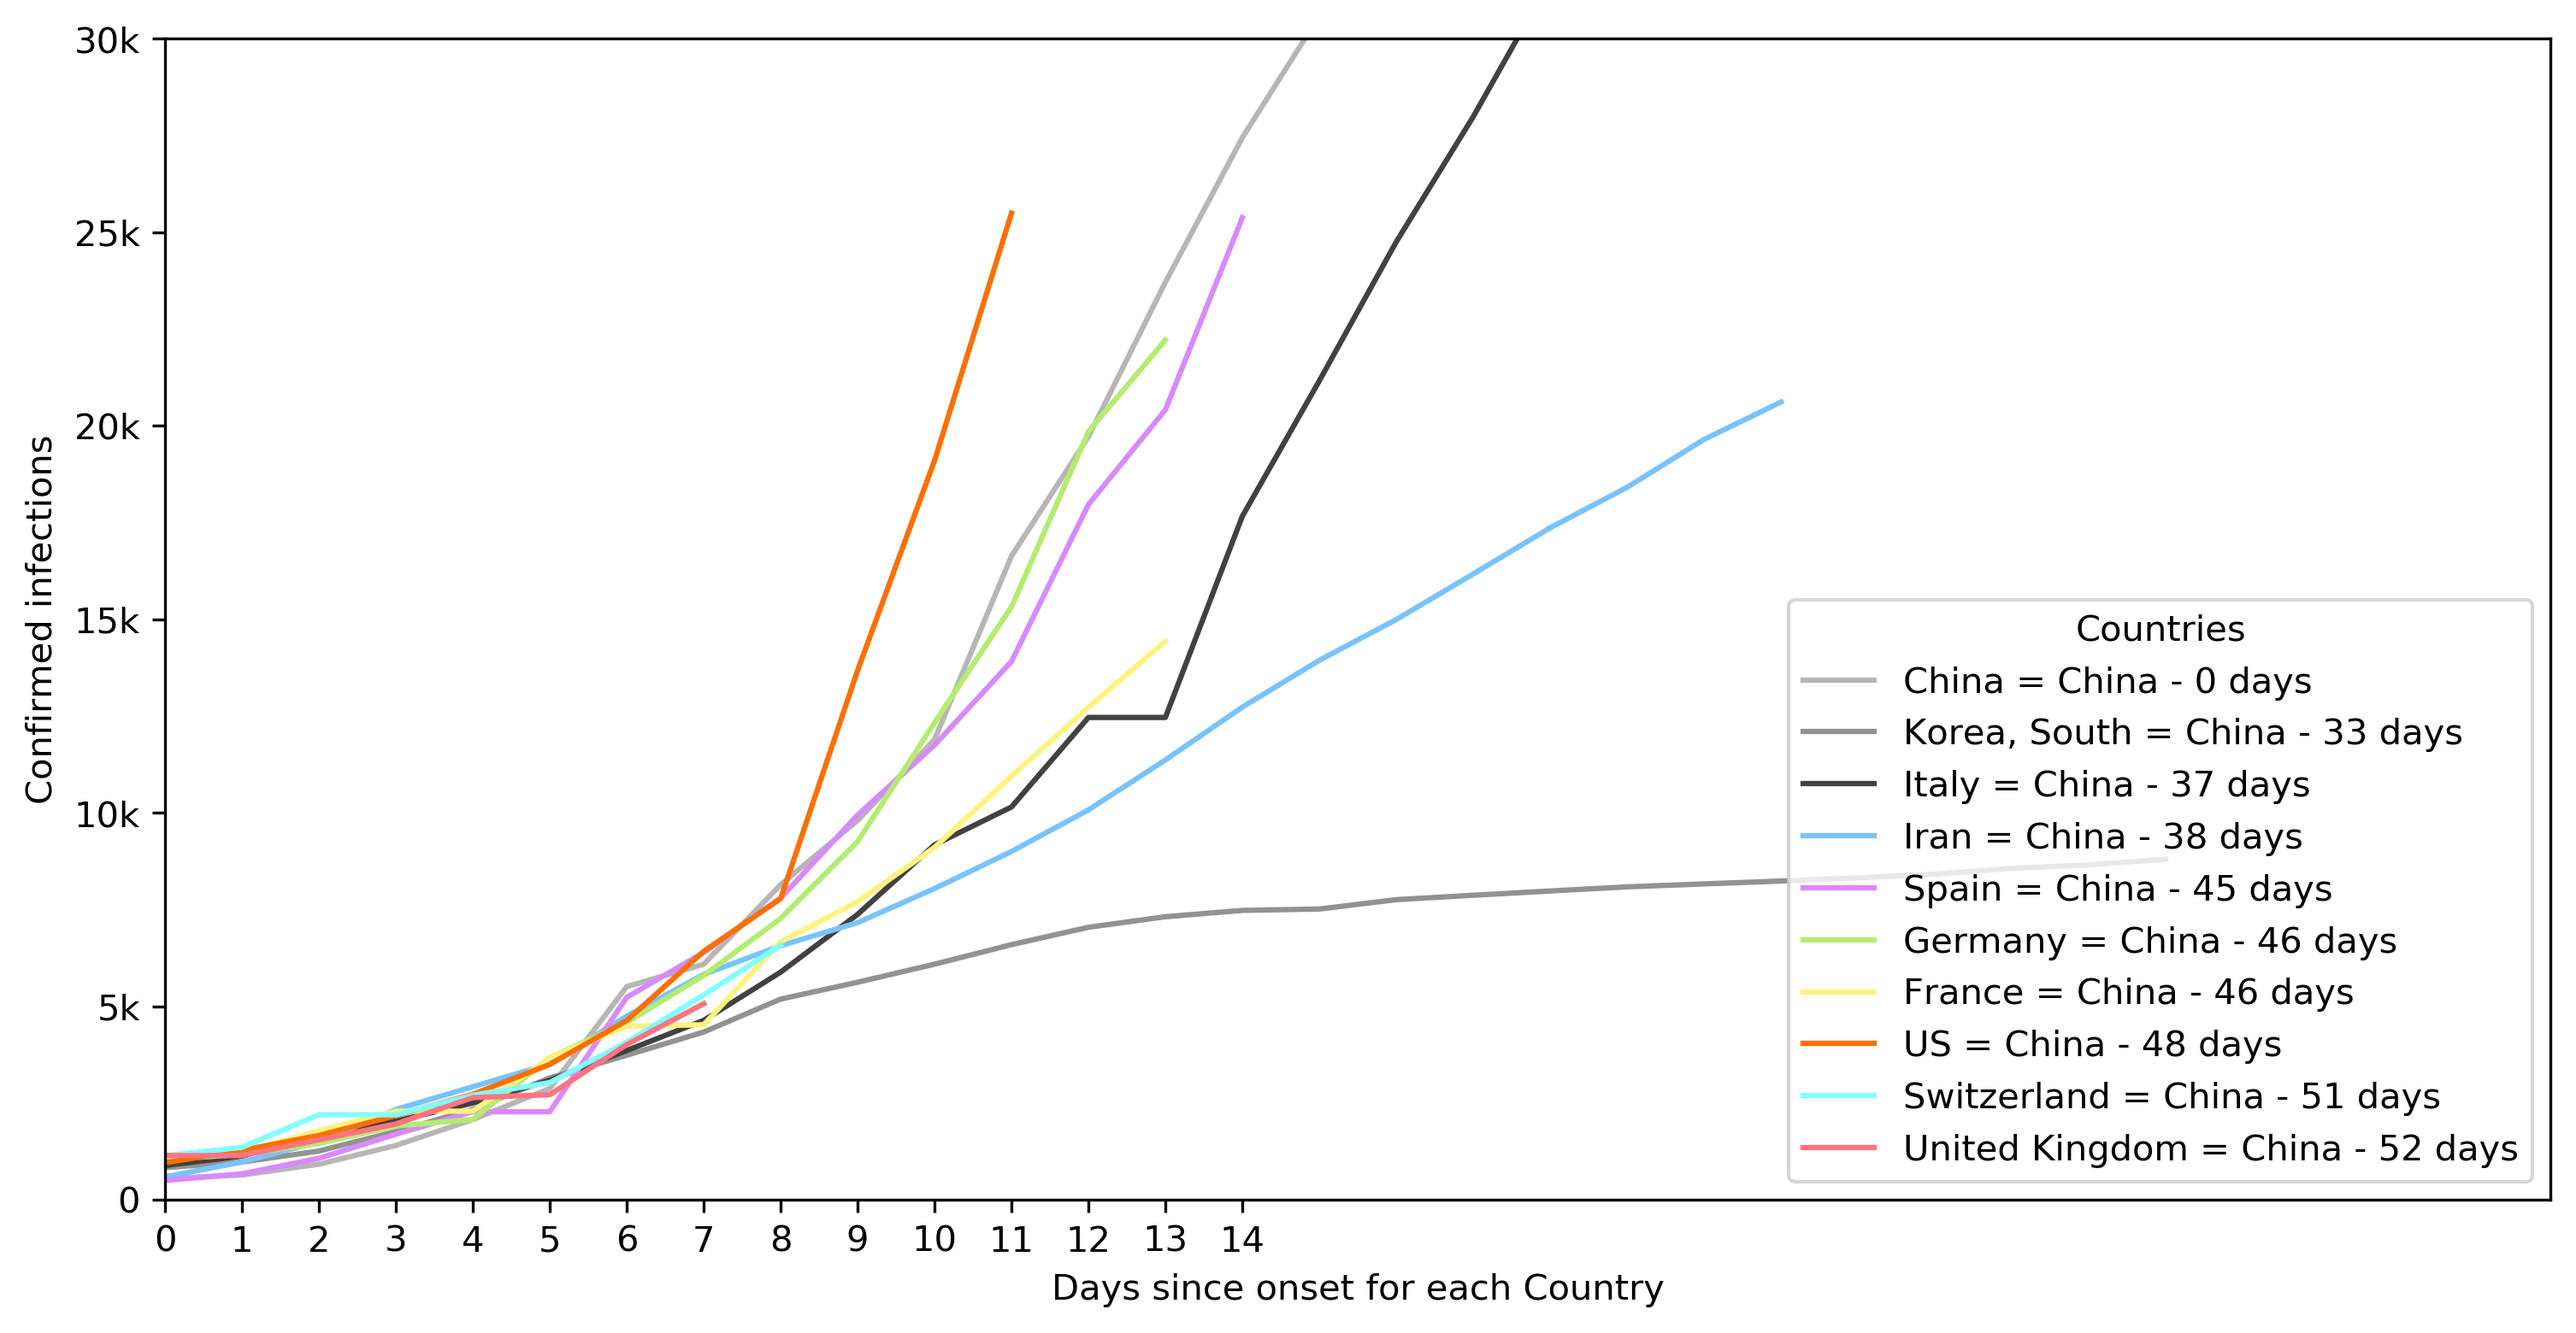
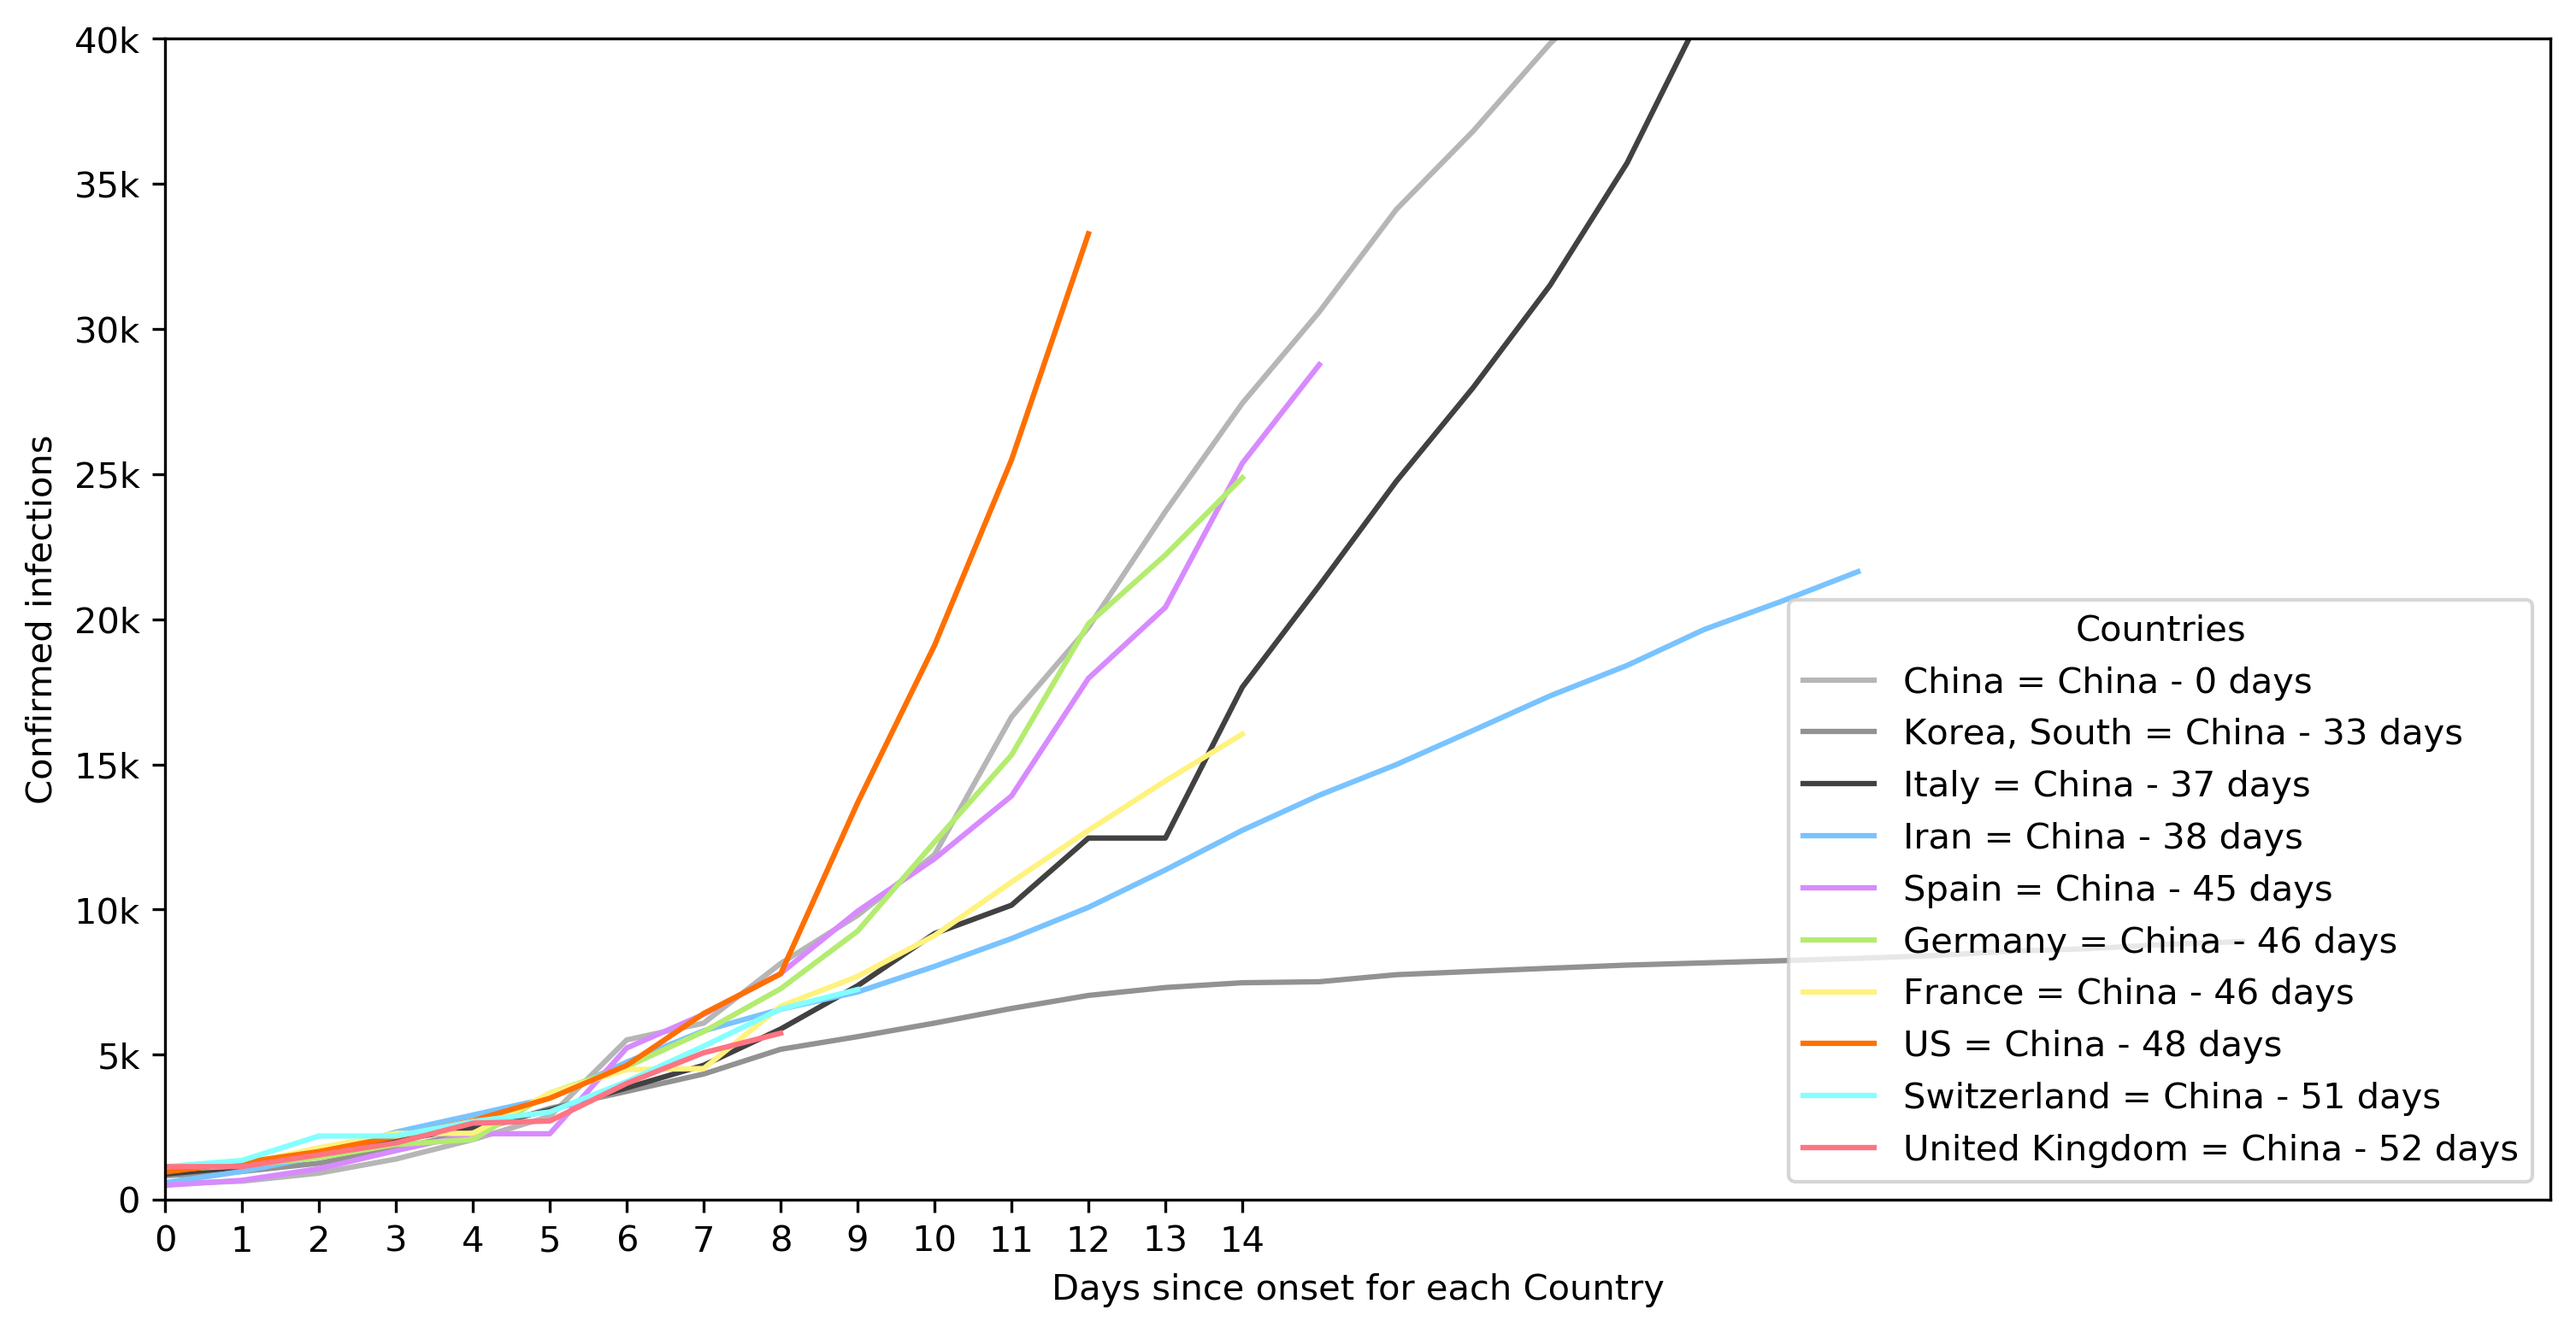
update

diff --git a/plot_trends.py b/plot_trends.py
@@ -95,7 +95,7 @@ plt.xticks([np.datetime64('2020-01-22') + np.timedelta64(d, 'D') for d in range(
 ax.set_xticklabels(range(0, 15))
 plt.xlabel('Days since onset for each Country')
 
-plt.ylim((0, 30000))
+plt.ylim((0, 40000))
 ax.set_yticklabels(['0' if x == 0 else '{:.0f}k'.format(int(x) / 1000) for x in ax.get_yticks().tolist()])
 plt.ylabel('Confirmed infections')
 
